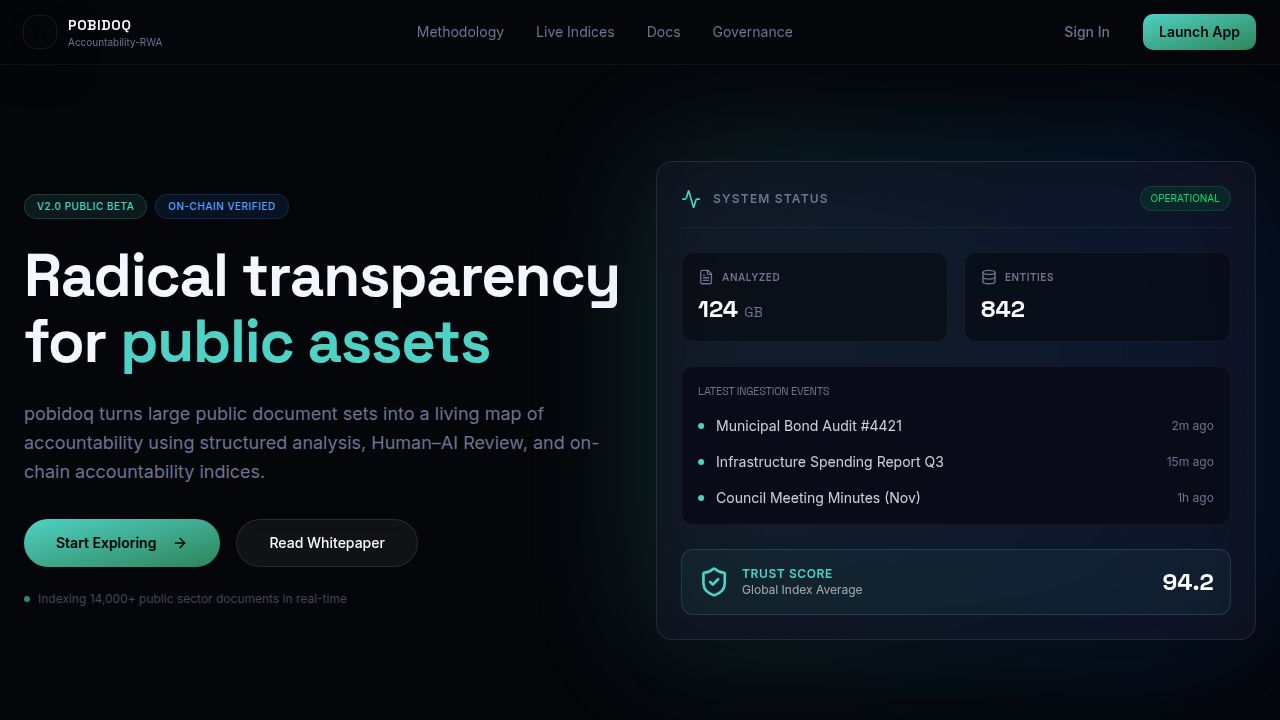
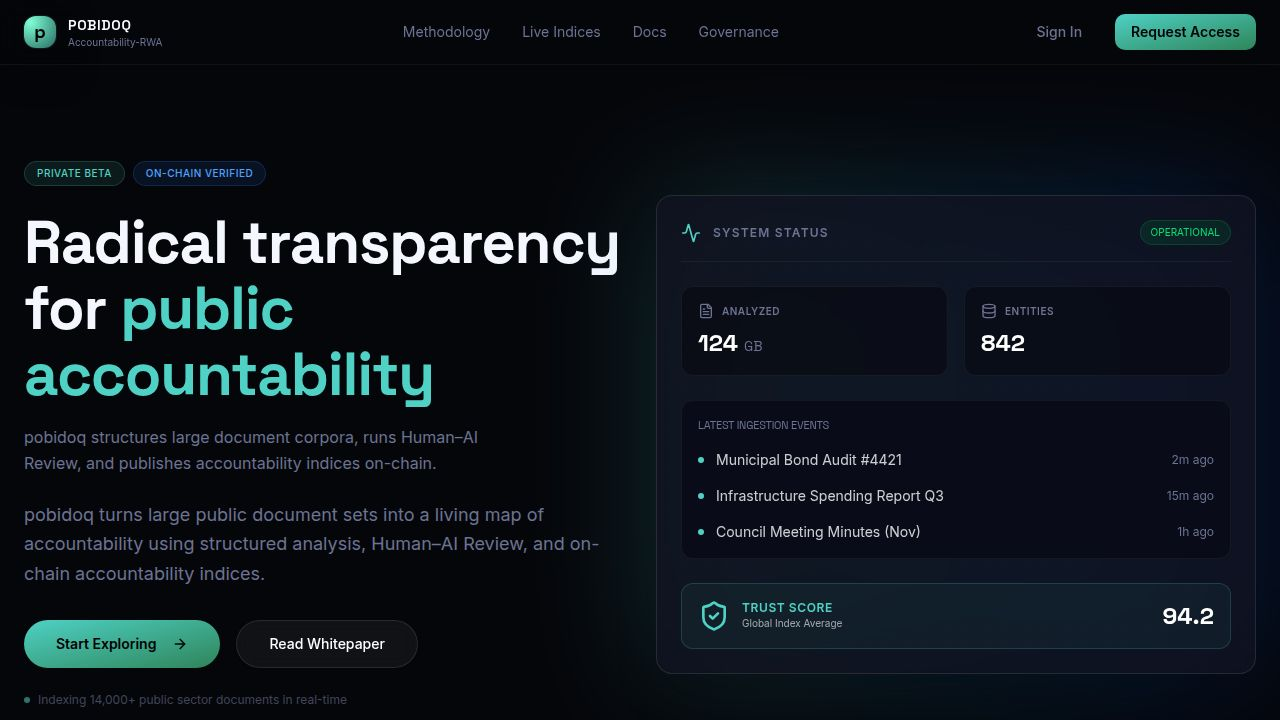
Update website branding and content for enhanced credibility
Refactors hero section, contact form, and footer to align with new branding and content strategy. Adds a new "Problem Section" and updates button text and badges.

Replit-Commit-Author: Agent
Replit-Commit-Session-Id: 162631d2-122d-4f60-aba2-f9398e698e13
Replit-Commit-Checkpoint-Type: full_checkpoint
Replit-Commit-Event-Id: b2628bb6-0b54-418e-9736-ddc4ccf89e4a
Replit-Commit-Screenshot-Url: https://storage.googleapis.com/screenshot-production-us-central1/97a0e726-ce3e-473f-bd9a-f65b27efce53/162631d2-122d-4f60-aba2-f9398e698e13/dn7nmvt
Replit-Helium-Checkpoint-Created: true

diff --git a/client/src/components/hero.tsx b/client/src/components/hero.tsx
@@ -17,16 +17,21 @@ export function Hero() {
           >
             <div className="flex flex-wrap gap-2">
               <span className="inline-flex items-center px-3 py-1 rounded-full text-[10px] font-medium tracking-wider uppercase bg-[#4fd1c5]/10 text-[#4fd1c5] border border-[#4fd1c5]/20">
-                v2.0 Public Beta
+                PRIVATE BETA
               </span>
               <span className="inline-flex items-center px-3 py-1 rounded-full text-[10px] font-medium tracking-wider uppercase bg-blue-500/10 text-blue-400 border border-blue-500/20">
                 On-Chain Verified
               </span>
             </div>
 
-            <h1 className="font-display text-4xl sm:text-5xl lg:text-6xl font-bold leading-[1.1] tracking-tight">
-              Radical transparency for <span className="text-[#4fd1c5]">public assets</span>
-            </h1>
+            <div className="flex flex-col gap-4">
+              <h1 className="font-display text-4xl sm:text-5xl lg:text-6xl font-bold leading-[1.1] tracking-tight">
+                Radical transparency for <span className="text-[#4fd1c5]">public accountability</span>
+              </h1>
+              <p className="text-muted-foreground text-sm sm:text-base leading-relaxed max-w-lg">
+                pobidoq structures large document corpora, runs Human–AI Review, and publishes accountability indices on-chain.
+              </p>
+            </div>
 
             <p className="text-muted-foreground text-lg leading-relaxed max-w-xl">
               pobidoq turns large public document sets into a living map of accountability using structured analysis, Human–AI Review, and on-chain accountability indices.
@@ -123,7 +128,7 @@ export function Hero() {
                     <ShieldCheck className="w-8 h-8 text-[#4fd1c5]" />
                     <div>
                       <div className="text-xs text-[#4fd1c5] font-semibold uppercase tracking-wider">Trust Score</div>
-                      <div className="text-white/60 text-xs">Global Index Average</div>
+                      <div className="text-white/60 text-[10px]">Global Index Average</div>
                     </div>
                   </div>
                   <div className="text-2xl font-bold font-display text-white">94.2</div>

diff --git a/client/src/pages/home.tsx b/client/src/pages/home.tsx
@@ -2,6 +2,7 @@ import { Navbar } from "@/components/navbar";
 import { Hero } from "@/components/hero";
 import { Features } from "@/components/features";
 import { ContactForm } from "@/components/contact-form";
+import { ProblemSection } from "@/components/problem-section";
 
 export default function Home() {
   return (
@@ -9,20 +10,28 @@ export default function Home() {
       <Navbar />
       <main>
         <Hero />
+        <ProblemSection />
         <Features />
         <ContactForm />
       </main>
       
-      <footer className="py-8 border-t border-white/5 bg-[#0a0c12]">
-        <div className="container mx-auto px-4 sm:px-6 flex flex-col md:flex-row justify-between items-center gap-4">
-          <div className="flex items-center gap-2 text-sm text-muted-foreground">
-            <span className="font-display font-bold text-white">pobidoq</span>
-            <span>© 2026</span>
+      <footer className="py-12 border-t border-white/5 bg-[#0a0c12]">
+        <div className="container mx-auto px-4 sm:px-6 flex flex-col md:flex-row justify-between items-center gap-8">
+          <div className="flex flex-col gap-2">
+            <div className="flex items-center gap-2 text-sm text-white font-display font-bold">
+              pobidoq
+            </div>
+            <div className="text-xs text-muted-foreground">
+              © 2026 pobidoq • pranshoe@gmail.com
+            </div>
           </div>
-          <div className="flex gap-6 text-xs text-muted-foreground uppercase tracking-wider">
+          <div className="flex flex-wrap gap-6 text-xs text-muted-foreground uppercase tracking-wider font-medium">
             <a href="#" className="hover:text-[#4fd1c5] transition-colors">Privacy</a>
+            <span className="text-white/10 hidden sm:inline">|</span>
             <a href="#" className="hover:text-[#4fd1c5] transition-colors">Terms</a>
+            <span className="text-white/10 hidden sm:inline">|</span>
             <a href="#" className="hover:text-[#4fd1c5] transition-colors">Twitter</a>
+            <span className="text-white/10 hidden sm:inline">|</span>
             <a href="#" className="hover:text-[#4fd1c5] transition-colors">GitHub</a>
           </div>
         </div>

diff --git a/client/src/components/problem-section.tsx b/client/src/components/problem-section.tsx
@@ -1,0 +1,25 @@
+import { motion } from "framer-motion";
+
+export function ProblemSection() {
+  return (
+    <section className="py-24 bg-[#05060a] border-t border-white/5">
+      <div className="container mx-auto px-4 sm:px-6">
+        <div className="max-w-3xl">
+          <motion.div
+            initial={{ opacity: 0, y: 20 }}
+            whileInView={{ opacity: 1, y: 0 }}
+            viewport={{ once: true }}
+            transition={{ duration: 0.6 }}
+          >
+            <h2 className="text-3xl font-display font-bold text-white mb-6">
+              The Problem: Documentation Without Durable <span className="text-[#4fd1c5]">Accountability</span>
+            </h2>
+            <p className="text-muted-foreground text-lg leading-relaxed">
+              High-stakes investigations, regulatory actions, and public inquiries generate millions of pages of documentation. Yet only a fraction is ever deeply analyzed, every newsroom and NGO rebuilds timelines from scratch, and there is no shared, structured record of what has been questioned, clarified, or resolved. Public documentation exists, but accountability tracking does not.
+            </p>
+          </motion.div>
+        </div>
+      </div>
+    </section>
+  );
+}

diff --git a/client/src/components/contact-form.tsx b/client/src/components/contact-form.tsx
@@ -59,7 +59,7 @@ export function ContactForm() {
               Get Early Access
             </h2>
             <p className="text-muted-foreground mb-8">
-              We are currently onboarding partners for our private beta. If you represent a public entity, research institution, or auditing firm, please reach out.
+              We are currently onboarding partners for our private beta. If you represent a public entity, research institution, newsroom, advocacy organization, or auditing firm, please reach out.
             </p>
 
             <div className="space-y-6">

diff --git a/client/src/components/navbar.tsx b/client/src/components/navbar.tsx
@@ -37,7 +37,7 @@ export function Navbar() {
             Sign In
           </Button>
           <Button className="bg-gradient-to-br from-[#4fd1c5] to-[#2f855a] text-[#020305] font-semibold hover:shadow-[0_0_20px_rgba(79,209,197,0.3)] hover:scale-105 transition-all duration-300 border-0">
-            Launch App
+            Request Access
           </Button>
         </div>
       </div>
